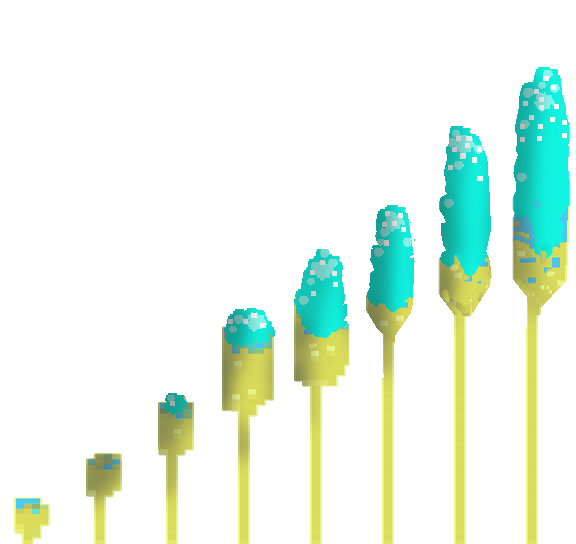
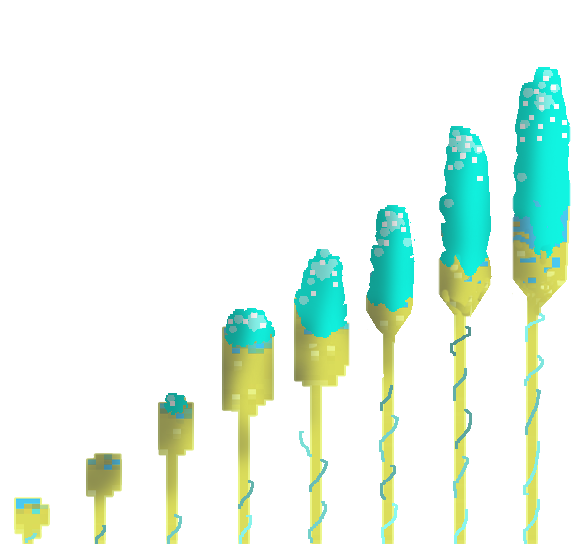
asset update multiple trees

diff --git a/js/main.js b/js/main.js
@@ -36,7 +36,7 @@ var terrainFrames = {
 
 var terrainVariations = 4;
 
-var treeVariations = 2;
+var treeVariations = 11;
 
 var maxPlayerDistance = 0;
 // 1 in n chance for a bush
@@ -62,6 +62,15 @@ function preload() {
 	game.load.spritesheet('player', 'assets/player.png', 64, 64);
 	game.load.spritesheet('tree1', 'assets/tree.png', treeWidth, 544);
 	game.load.spritesheet('tree2', 'assets/tree2.png', treeWidth, 544);
+	game.load.spritesheet('tree3', 'assets/tree3.png', treeWidth, 544);
+	game.load.spritesheet('tree4', 'assets/tree4.png', treeWidth, 544);
+	game.load.spritesheet('tree5', 'assets/tree5.png', treeWidth, 544);
+	game.load.spritesheet('tree6', 'assets/tree6.png', treeWidth, 544);
+	game.load.spritesheet('tree7', 'assets/tree7.png', treeWidth, 544);
+	game.load.spritesheet('tree8', 'assets/tree8.png', treeWidth, 544);
+	game.load.spritesheet('tree9', 'assets/tree9.png', treeWidth, 544);
+	game.load.spritesheet('tree10', 'assets/tree10.png', treeWidth, 544);
+	game.load.spritesheet('tree11', 'assets/tree11.png', treeWidth, 544);
 	game.load.spritesheet('bush', 'assets/bush.png', 32, 32);
 	game.load.spritesheet('terrain', 'assets/terrain.png', tileSize, tileSize);
 
